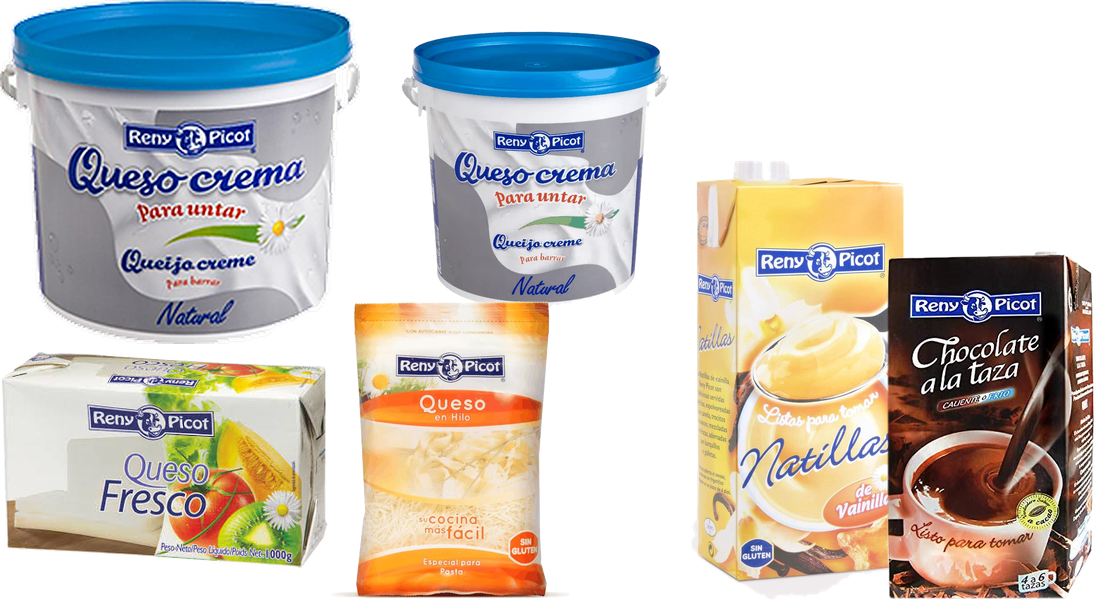
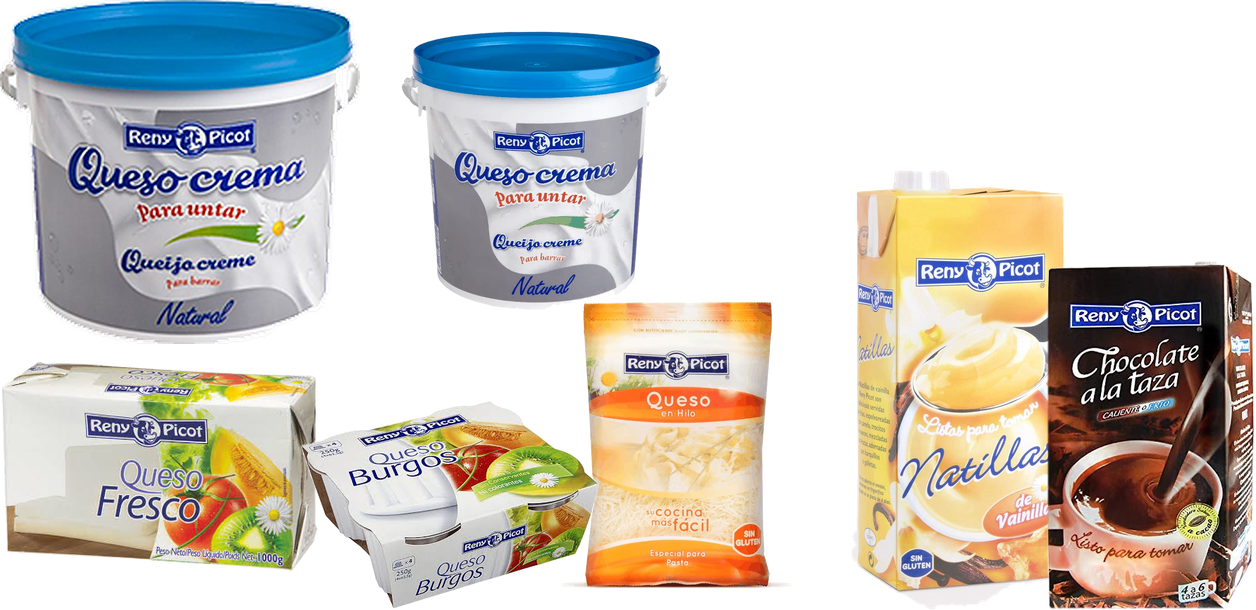
Refrigerados: foto del queso de Burgos 4 × 62,5 g de Reny Picot, en su ficha y en el bodegón
Claude-Session: https://claude.ai/code/session_01TfVuY2sTVvMwp4RqzYabW2

diff --git a/refrigerados-products.js b/refrigerados-products.js
@@ -37,7 +37,7 @@
       lead:'Queso para untar, queso de Burgos, mozzarella, rallados y lonchas. Y, de Reny Picot, natillas y chocolate a la taza.',
       media:[
         {src:B+'reny-picot-logo.png', w:212, h:62, alt:'Reny Picot', cls:'rf-m-brand'},
-        {src:B+'reny-picot-bodegon.png', w:1096, h:600, alt:'Reny Picot de hostelería: queso crema para untar en cubos de 2 y 5 kg, queso fresco de 1 kg, queso rallado, natillas de vainilla y chocolate a la taza', cls:'rf-m-hero rf-m-cut'}
+        {src:B+'reny-picot-bodegon.png', w:1256, h:610, alt:'Reny Picot de hostelería: queso crema para untar en cubos de 2 y 5 kg, queso fresco de 1 kg, queso de Burgos en pack de 4, queso rallado, natillas de vainilla y chocolate a la taza', cls:'rf-m-hero rf-m-cut'}
       ] },
     { id:'pozo', n:'08', chip:'El Pozo', kicker:'El Pozo', title:'El Pozo',
       lead:'Bacon, paleta, taquitos de jamón y salchichas para hostelería, y jamón en formato sobre para alimentación.',
@@ -95,7 +95,7 @@
     {group:'Salchichas',brand:'El Pozo',name:'Salchichas cocktail · 1 kg',blk:'salchichas,pozo',uso:'h',cod:'20120',peek:'assets/refrigerados/extra/elpozo_salchichas-cocktail-1kg.png',pw:634,ph:625,peekAlt:'Salchichas cocktail de ElPozo, bolsa de 1 kg (100 unidades)'},
     {group:'Salchichas',brand:'Oscar Mayer',name:'Salchichas Jumbo · 350 g',blk:'salchichas',uso:'',cod:'26121',image:'assets/refrigerados/extra/oscar-mayer_salchichas-jumbo-y-bacon-en-lonchas.png',w:720,h:720,alt:'Salchichas Jumbo Oscar Mayer'},
     {group:'Quesos',brand:'Reny Picot',name:'Queso de Burgos · brik de 1 kg',blk:'quesos',uso:'',cod:'17050',image:'assets/refrigerados/extra/reny-picot_queso-fresco-1kg.png',w:357,h:238,alt:'Queso fresco Reny Picot, brik de 1.000 g'},
-    {group:'Quesos',brand:'Reny Picot',name:'Queso de Burgos · 4 × 62,5 g',blk:'quesos',uso:'',cod:'17002'},
+    {group:'Quesos',brand:'Reny Picot',name:'Queso de Burgos · 4 × 62,5 g',blk:'quesos',uso:'',cod:'17002',image:'assets/refrigerados/extra/reny-picot_queso-burgos-4x62-5g.png',w:441,h:309,alt:'Queso de Burgos Reny Picot, pack de 4 unidades de 62,5 g'},
     {group:'Quesos',brand:'Reny Picot',name:'Queso en lonchas · 8 unidades',blk:'quesos',uso:'',cod:'17080',image:'assets/refrigerados/extra/reny-picot_queso-en-lonchas.png',w:720,h:720,alt:'Queso en lonchas Reny Picot'},
     {group:'Quesos',brand:'Reny Picot',name:'Emmental rallado · 60 g',blk:'quesos',uso:'',cod:'17005',image:'assets/refrigerados/extra/reny-picot_quesos-rallados.png',w:720,h:720,alt:'Quesos rallados Reny Picot'},
     {group:'Quesos',brand:'Reny Picot',name:'Queso rallado en polvo · 100 g',blk:'quesos',uso:'',cod:'17006',image:'assets/refrigerados/extra/reny-picot_quesos-rallados.png',w:720,h:720,alt:'Quesos rallados Reny Picot'},

diff --git a/refrigerados.html b/refrigerados.html
@@ -82,7 +82,7 @@
   </main>
   <footer class="pw-footer"><span>Fotografías de producto: Reny Picot, Pascual, Rogusa y Campofrío</span><a href="https://www.facebook.com/share/1LfPCX2kSw/" target="_blank" rel="noopener">Facebook</a><a href="https://www.instagram.com/distrvalentinmartin/" target="_blank" rel="noopener">Instagram</a><a href="aviso-legal.html">Aviso legal</a><a href="privacidad.html">Política de privacidad</a><a href="index.html#inicio">Volver a inicio ↑</a></footer>
   <script src="precios.js?v=e91f9a24" defer></script>
-  <script src="refrigerados-products.js?v=209935ac" defer></script>
+  <script src="refrigerados-products.js?v=25d3c6ef" defer></script>
 <script src="site-header.js?v=9aa16ac1" defer></script>
 <script src="cookies.js?v=a255d7c1" defer></script>
 <script src="estadisticas.js?v=30c3e111" defer></script>
